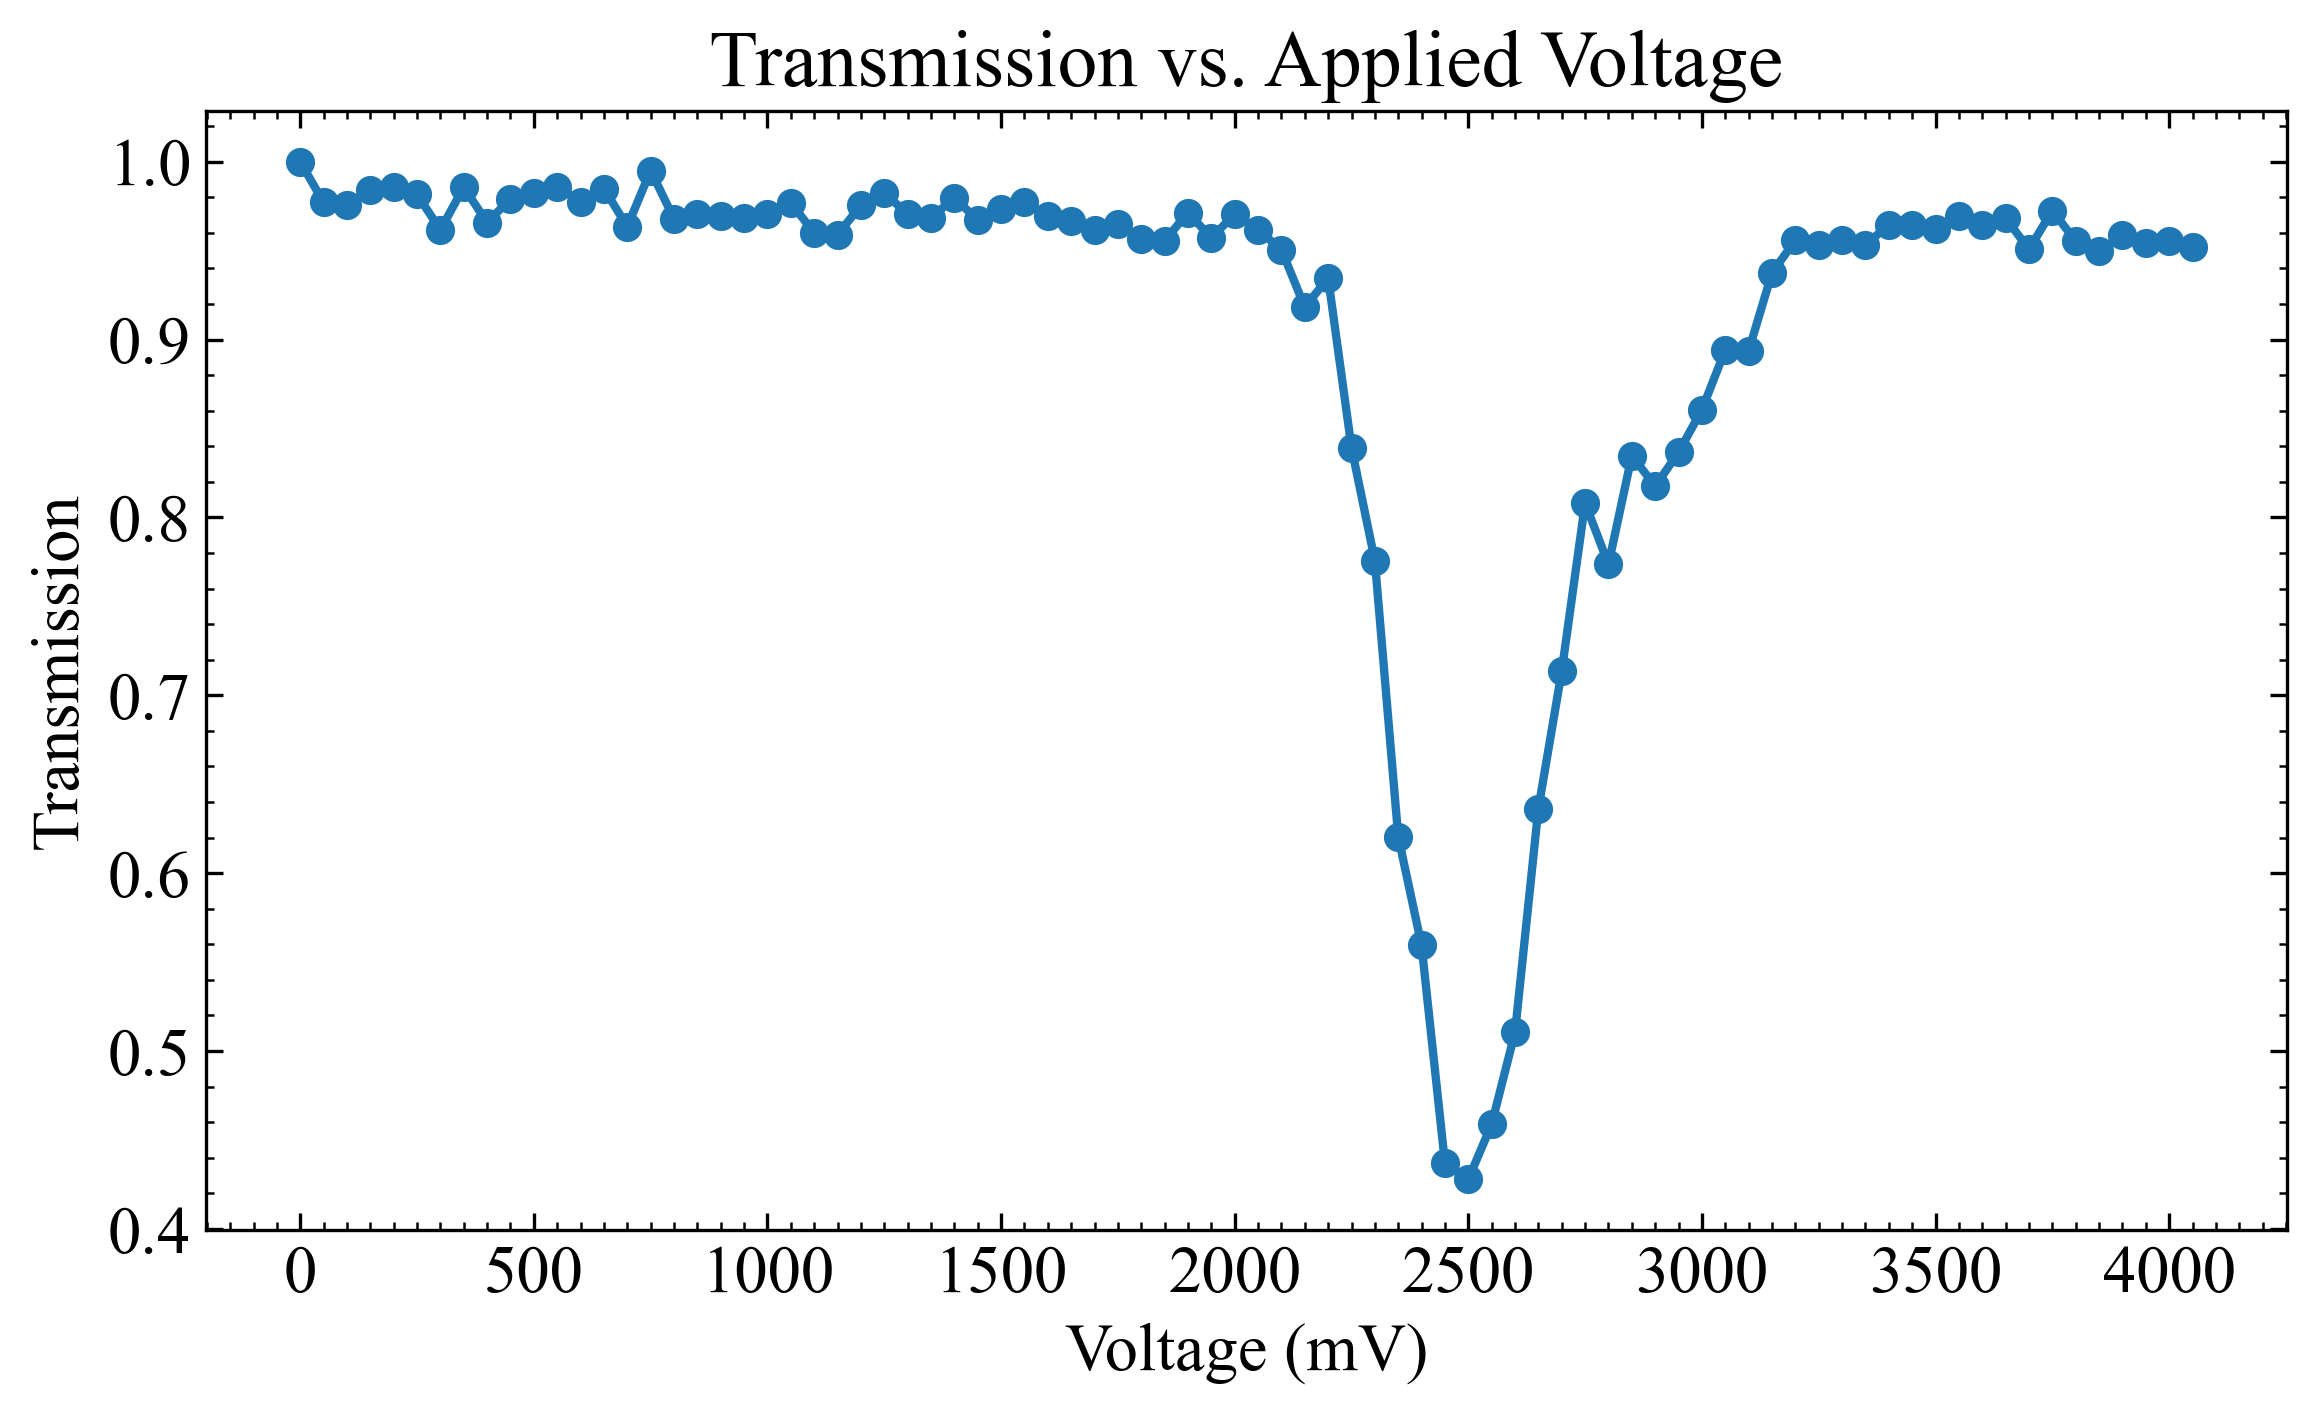
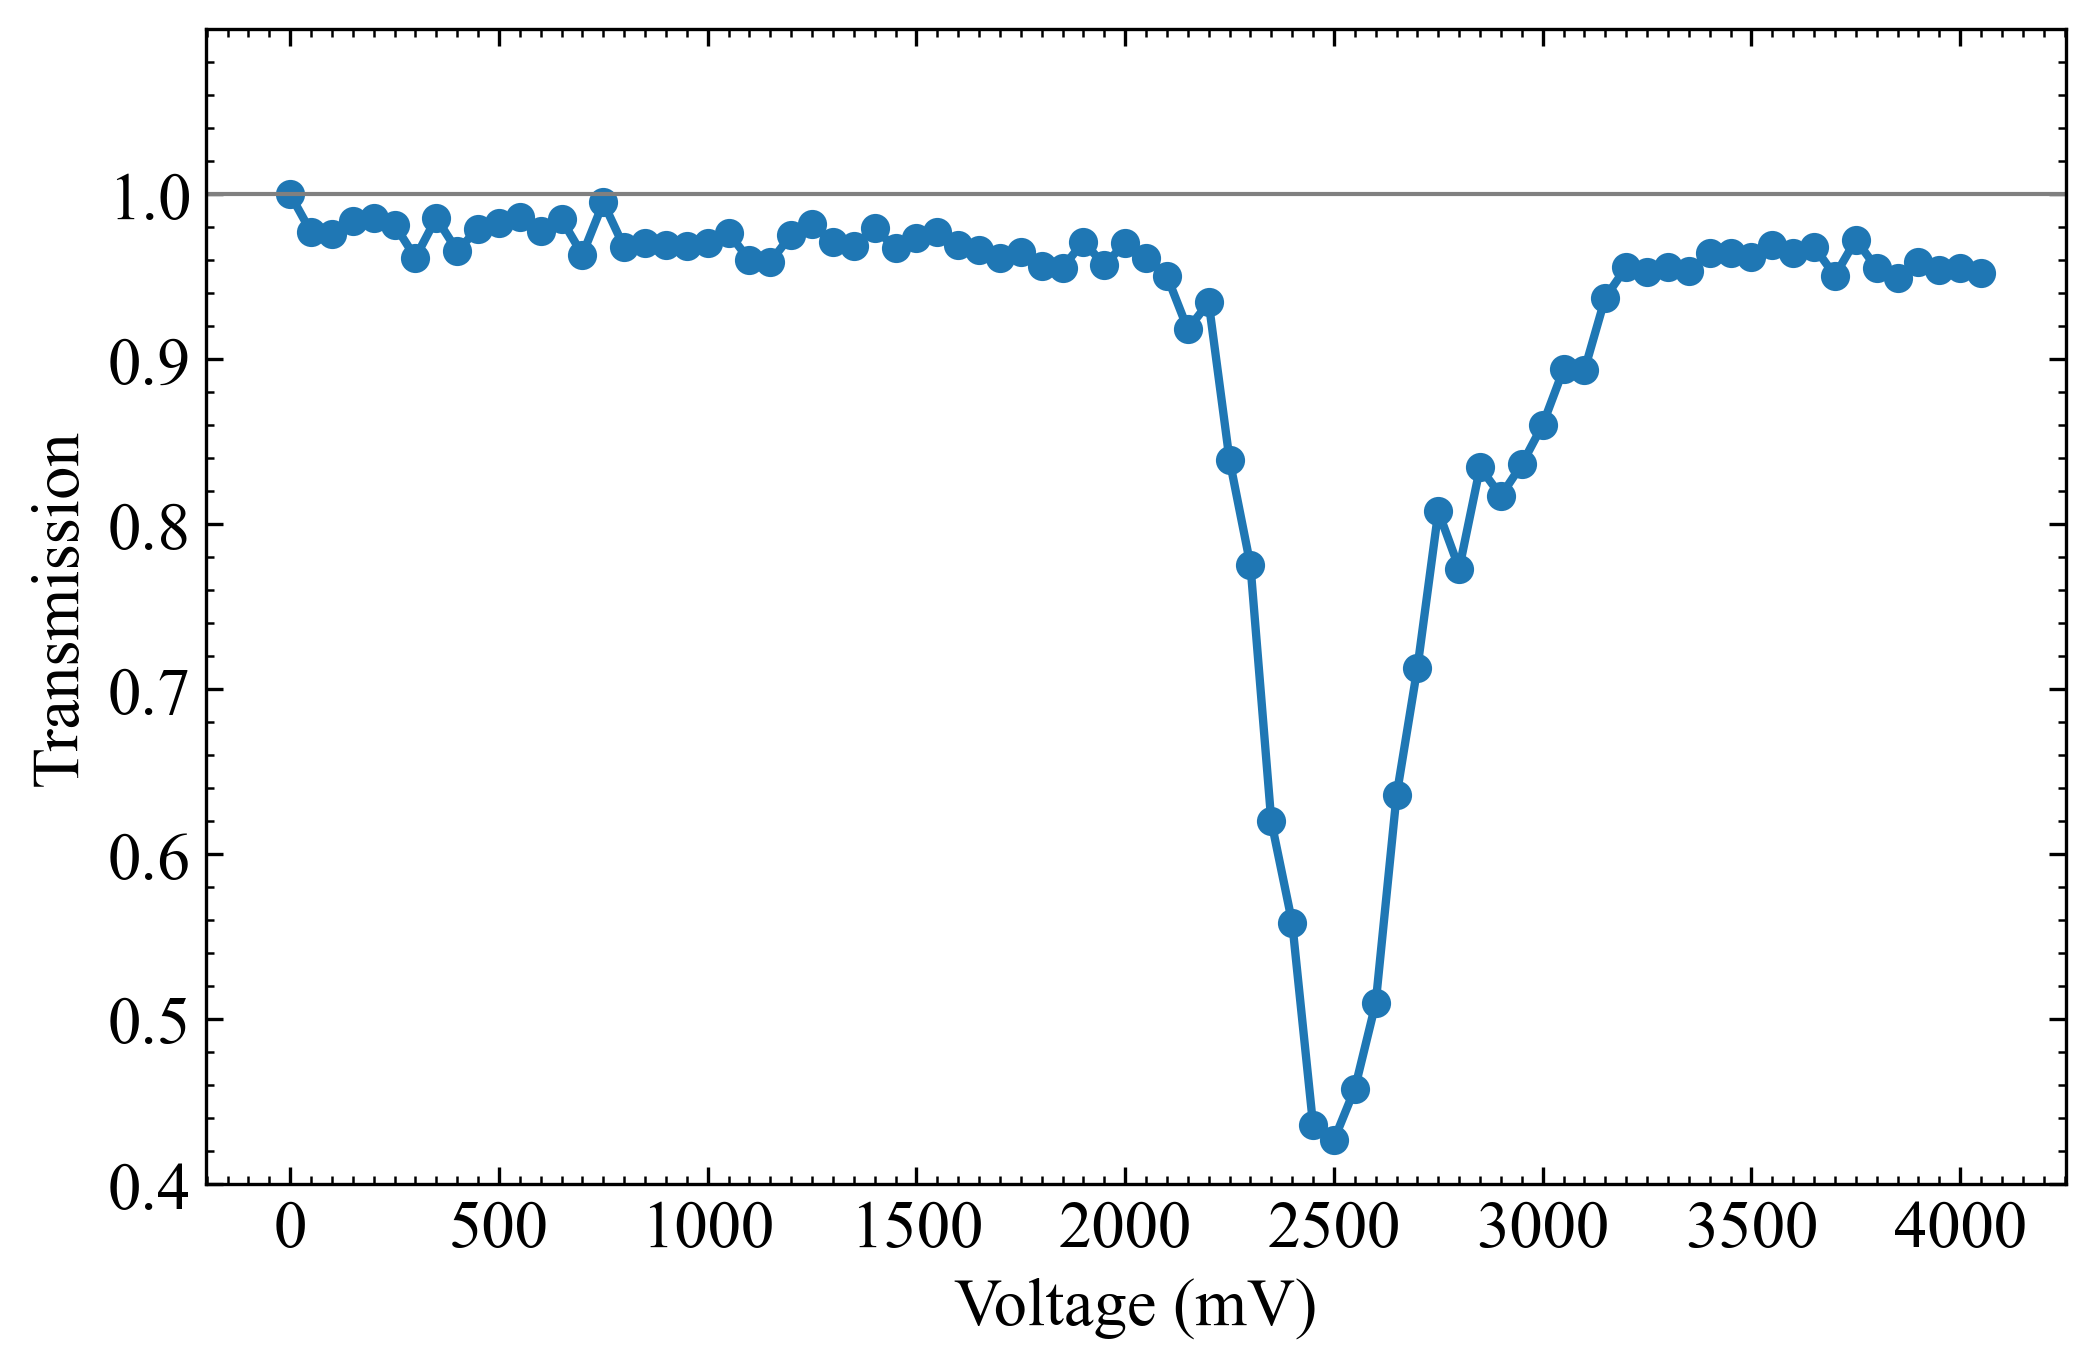
57

diff --git a/imageIntegration.py b/imageIntegration.py
@@ -83,7 +83,7 @@ rcParams['mathtext.fontset'] = 'dejavuserif' # or 'cm', 'stix', 'custom'
 focus_distance = None # Only show a certain distance
 plot_main = False
 save_all_plots = True
-#save_all_plots = False
+save_all_plots = False
 
 pixel_size = 3.45e-6 #m
 pixel_area = pixel_size**2 #3.45 x 3.45 micrometers squared
@@ -1015,10 +1015,14 @@ if normalTransmission and mode == 2:
 	plt.ylabel("Transmission")
 	plt.title("Total Transmission vs. Applied Voltage")
 else:
-	plt.plot(voltages, P_scaled, "o-", color="tab:blue", lw=2, markersize=6)
+	plt.plot(voltages, P_scaled/np.max(P_scaled), "o-", color="tab:blue", lw=2, markersize=6)
 	plt.xlabel("Voltage (mV)")
-	plt.ylabel("Integrated power (W)")
-	plt.title("Integrated, Scaled Power vs. Applied Voltage")
+	#plt.ylabel("Integrated power (W)")
+	plt.ylabel("Transmission")
+	plt.ylim(0.4,1.1)
+	plt.axhline(1, color='grey', lw=1)
+	plt.yticks([0.4, 0.5, 0.6, 0.7 ,0.8,0.9, 1.0])
+	#plt.title("Integrated, Scaled Power vs. Applied Voltage")
 
 ax = plt.gca()
 if mode == 2:
@@ -1028,7 +1032,7 @@ else:
 ax.yaxis.set_minor_locator(AutoMinorLocator(5))
 
 plt.grid(False)
-plt.tight_layout()
+#plt.tight_layout()
 
 # Optional: save
 
@@ -1038,6 +1042,6 @@ if save_all_plots:
 	elif mode == 1:
 		plt.savefig("scaled_power_vs_distance_new.png", dpi=300, bbox_inches='tight')
 	else:
-		plt.savefig("scaled_power_vs_voltage.png", dpi=300, bbox_inches='tight')
+		plt.savefig("P_Pmax_vs_voltage.png", dpi=300, bbox_inches='tight')
 
 plt.show()
